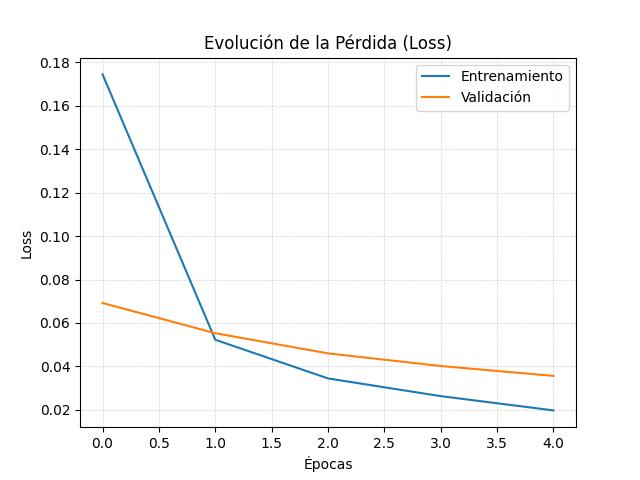
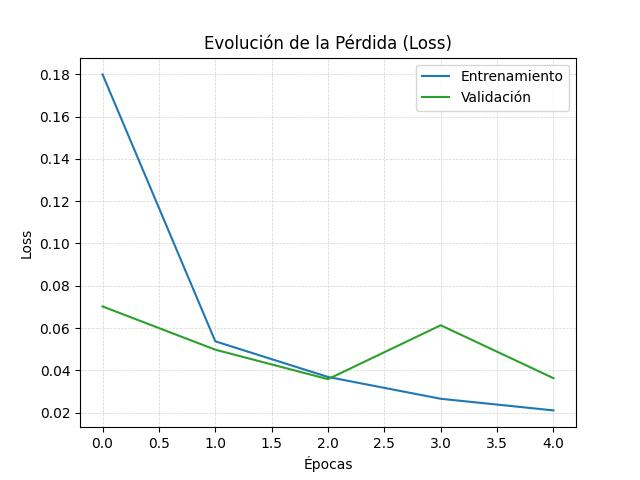
chore: commit save point

diff --git a/src/functions.py b/src/functions.py
@@ -34,24 +34,24 @@ def evaluate_model(model, X_test, y_test):
 
 def plot_training_history(history):
     plt.figure()
-    plt.plot(history.history['accuracy'], label='Entrenamiento')
-    plt.plot(history.history['val_accuracy'], label='Validación')
+    plt.plot(history.history['accuracy'], label='Entrenamiento', color='#1f77b4')  # Azul oscuro
+    plt.plot(history.history['val_accuracy'], label='Validación', color='#2ca02c')  # Verde
     plt.title('Evolución de la Accuracy')
     plt.xlabel('Épocas')
     plt.ylabel('Accuracy')
     plt.legend()
-    plt.grid(visible=True, color='lightgray', linestyle='--', linewidth=0.5)  # Asegura que el grid sea visible
+    plt.grid(visible=True, color='lightgray', linestyle='--', linewidth=0.5)
     plt.savefig('img/accuracy.jpg')
     plt.show()
 
     plt.figure()
-    plt.plot(history.history['loss'], label='Entrenamiento')
-    plt.plot(history.history['val_loss'], label='Validación')
+    plt.plot(history.history['loss'], label='Entrenamiento', color='#1f77b4')  # Azul oscuro
+    plt.plot(history.history['val_loss'], label='Validación', color='#2ca02c')  # Verde
     plt.title('Evolución de la Pérdida (Loss)')
     plt.xlabel('Épocas')
     plt.ylabel('Loss')
     plt.legend()
-    plt.grid(visible=True, color='lightgray', linestyle='--', linewidth=0.5)  # Asegura que el grid sea visible
+    plt.grid(visible=True, color='lightgray', linestyle='--', linewidth=0.5)
     plt.savefig('img/loss.jpg')
     plt.show()
 
@@ -59,32 +59,9 @@ def plot_confusion_matrix(model, X_test, y_test):
     y_pred_probs = model.predict(X_test)
     y_pred = np.argmax(y_pred_probs, axis=1)
     cm = confusion_matrix(y_test, y_pred)
-
-    # Crear un mapa de colores personalizado (gradación de rojo a verde)
-    cmap = plt.cm.RdYlGn
-
-    # Normalizar la matriz de confusión para que los colores sean proporcionales
-    cm_normalized = cm.astype('float') / cm.sum(axis=1)[:, np.newaxis]
-
-    plt.figure(figsize=(8, 8))
-    plt.imshow(cm_normalized, interpolation='nearest', cmap=cmap)
+    disp = ConfusionMatrixDisplay(confusion_matrix=cm, display_labels=range(10))
+    disp.plot(cmap='Blues')
     plt.title("Matriz de Confusión - MNIST")
-    plt.colorbar()
-
-    # Añadir etiquetas a los ejes
-    tick_marks = np.arange(len(range(10)))
-    plt.xticks(tick_marks, range(10))
-    plt.yticks(tick_marks, range(10))
-
-    # Añadir los valores dentro de las celdas
-    thresh = cm_normalized.max() / 2.0
-    for i, j in np.ndindex(cm.shape):
-        plt.text(j, i, f"{cm[i, j]}", 
-                 horizontalalignment="center",
-                 color="white" if cm_normalized[i, j] > thresh else "black")
-
-    plt.ylabel('True label')
-    plt.xlabel('Predicted label')
     plt.savefig('img/confusion_matrix.jpg')
     plt.show()
     return y_pred

diff --git a/README.md b/README.md
@@ -58,6 +58,10 @@ Below is the accuracy evolution during training and validation:
 
 ![Accuracy Evolution](img/accuracy.jpg)
 
+### Loss Evolution
+
+![Accuracy Evolution](img/loss.jpg)
+
 ### Confusion Matrix
 
 The confusion matrix for the MNIST test set is shown below:
